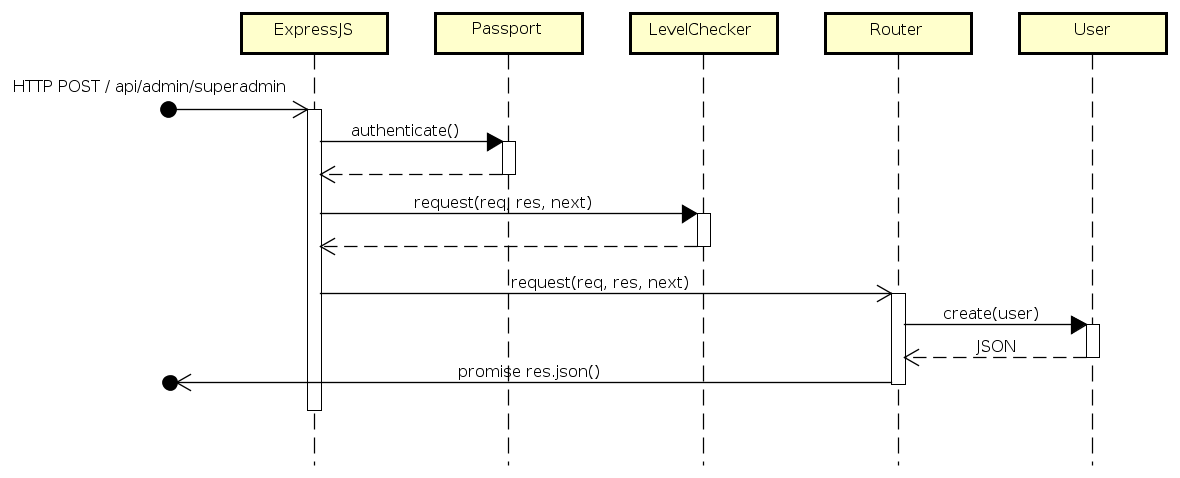
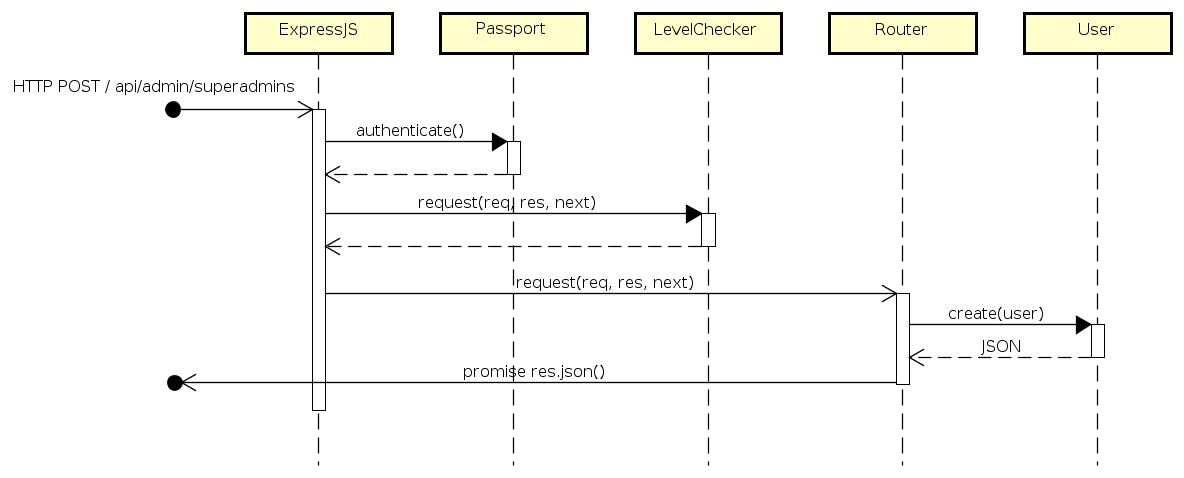
Correct API names with Alessandro's indications Add plural in names and insert companies before each :company_id

diff --git a/official/SpecificaTecnica/res/sections/api.tex b/official/SpecificaTecnica/res/sections/api.tex
@@ -26,7 +26,7 @@
 \newpage
 \subsubsection{Creazione Company}
 \textbf{Tipologia:} POST \\
-\textbf{API:} /api/company \\
+\textbf{API:} /api/companies \\
 \textbf{Descrizione:} Necessita di una richiesta con body contenente le informazioni relative alla company e alla creazione del profilo del suo Owner. \\
 \textbf{Scenario:} 
 \begin{figure}[h]
@@ -39,7 +39,7 @@
 \subsection{User}
 \subsubsection{Utenti di una company}
 \textbf{Tipologia:} GET \\
-\textbf{API:} /api/:company\_id/user \\
+\textbf{API:} /api/companies/:company\_id/users \\
 \textbf{Livello di accesso minimo:} MEMBER \\
 \textbf{Descrizione:} Ritorna un array di JSON contenenti i profili degli utenti della company. \\
 \textbf{Scenario:} 
@@ -52,7 +52,7 @@
 \newpage
 \subsubsection{Inserimento utente}
 \textbf{Tipologia:} POST \\
-\textbf{API:} /api/:company\_id/user \\
+\textbf{API:} /api/companies/:company\_id/users \\
 \textbf{Livello di accesso minimo:} ADMIN \\
 \textbf{Descrizione:} Necessita di una richiesta con body contenente l'email e il livello di accesso dell'utente.\\
 \textbf{Scenario:} 
@@ -65,7 +65,7 @@
 \newpage
 \subsubsection{Ottenimento del profilo utente}
 \textbf{Tipologia:} GET \\
-\textbf{API:} /api/:company\_id/user/:user\_id \\
+\textbf{API:} /api/companies/:company\_id/users/:user\_id \\
 \textbf{Livello di accesso minimo:} GUEST \\
 \textbf{Descrizione:} Ritorna un oggetto JSON contenente le informazioni relative al profilo dell'utente indicato da user\_id \\
 \textbf{Scenario:} 
@@ -78,7 +78,7 @@
 \newpage
 \subsubsection{Aggiornamento del profilo utente}
 \textbf{Tipologia:} PUT \\
-\textbf{API:} /api/:company\_id/user/:user\_id \\
+\textbf{API:} /api/companies/:company\_id/users/:user\_id \\
 \textbf{Livello di accesso minimo:} GUEST \\
 \textbf{Descrizione:} Necessita di una richiesta con un body contenente le informazioni per modificare l'utente indicato da user\_id. Il metodo deve essere utilizzato per la modifica del profilo di un utente. Un utente con permessi inferiori ad ADMIN ha la possibilità di modificare solo i propri dati, mentre ad ADMIN e OWNER vengono permesse modifiche a tutti i profili della company. 
 \textbf{Scenario:} 
@@ -91,7 +91,7 @@
 \newpage
 \subsubsection{Aggiornamento delle credenziali utente}
 \textbf{Tipologia:} PUT \\
-\textbf{API:} /api/:company\_id/user/:user\_id/credentials \\
+\textbf{API:} /api/companies/:company\_id/users/:user\_id/credentials \\
 \textbf{Livello di accesso minimo:} GUEST \\
 \textbf{Descrizione:} Metodo per la modifica delle credenziali di accesso di un utente. Un utente ha il permesso di cambiare solo le proprie credenziali. \\
 \textbf{Scenario:} 
@@ -104,7 +104,7 @@
 \newpage
 \subsubsection{Cancellazione utente}
 \textbf{Tipologia:} DELETE \\
-\textbf{API:} /api/:company\_id/user/:user\_id \\
+\textbf{API:} /api/companies/:company\_id/users/:user\_id \\
 \textbf{Livello di accesso minimo:} ADMIN \\
 \textbf{Descrizione:} Ritorna un messaggio di conferma dell'avvenuta cancellazione. \\
 \textbf{Scenario:} 
@@ -117,7 +117,7 @@
 \newpage
 \subsection{Company}
 \textbf{Tipologia:} GET \\
-\textbf{API:} /api/:company\_id/ \\
+\textbf{API:} /api/companies/:company\_id/ \\
 \textbf{Livello di accesso minimo:} GUEST \\
 \textbf{Descrizione:} Ritorna le informazioni generali di una company \\
 \textbf{Scenario:} 
@@ -131,7 +131,7 @@
 \newpage
 \subsubsection{Aggiornamento dei dati di una company}
 \textbf{Tipologia:} PUT \\
-\textbf{API:} /api/:company\_id/ \\
+\textbf{API:} /api/companies/:company\_id/ \\
 \textbf{Livello di accesso minimo:} ADMIN \\
 \textbf{Descrizione:} Necessita di una richiesta con body contenente le modifiche da apportare ai dati della company. \\
 \textbf{Scenario:} 
@@ -144,7 +144,7 @@
 \newpage
 \subsubsection{Cancellazione di una company}
 \textbf{Tipologia:} DELETE \\
-\textbf{API:} /api/:company\_id/ \\
+\textbf{API:} /api/companies/:company\_id/ \\
 \textbf{Livello di accesso minimo:} ADMIN \\
 \textbf{Descrizione:} Ritorna un messaggio di avvenuta cancellazione. \\
 \textbf{Scenario:} 
@@ -158,9 +158,9 @@
 \subsection{DSL}
 \subsubsection{Elenco delle specifiche DSL}
 \textbf{Tipologia:} GET \\
-\textbf{API:} /api/:company\_id/DSL \\
+\textbf{API:} /api/companies/:company\_id/DSLs \\
 \textbf{Livello di accesso minimo:} GUEST \\
-\textbf{Descrizione:} Ritorna un array contenente le DSL in formato JSON. \\
+\textbf{Descrizione:} Ritorna un array contenente le spacifiche DSL in formato JSON. \\
 \textbf{Scenario:} 
 \begin{figure}[h]
 \centering
@@ -171,7 +171,7 @@
 \newpage
 \subsubsection{Lettura del codice di una specifica DSL}
 \textbf{Tipologia:} GET \\
-\textbf{API:} /api/:company\_id/DSL/:dsl\_id \\
+\textbf{API:} /api/companies/:company\_id/DSLs/:dsl\_id \\
 \textbf{Livello di accesso minimo:} GUEST \\
 \textbf{Descrizione:} Ritorna la specifica DSL richiesta in formato JSON. \\
 \textbf{Scenario:} 
@@ -184,7 +184,7 @@
 \newpage
 \subsubsection{Aggiunta di una specifica DSL}
 \textbf{Tipologia:} POST \\
-\textbf{API:} /api/:company\_id/DSL \\
+\textbf{API:} /api/companies/:company\_id/DSLs \\
 \textbf{Livello di accesso minimo:} MEMBER \\
 \textbf{Descrizione:} Necessita di una richiesta con body contenente i dati necessari alla creazione della DSL. \\
 \textbf{Scenario:} 
@@ -197,7 +197,7 @@
 \newpage
 \subsubsection{Aggiornamento del codice di una specifica DSL}
 \textbf{Tipologia:} PUT \\
-\textbf{API:} /api/:company\_id/DSL/:dsl\_id \\
+\textbf{API:} /api/companies/:company\_id/DSLs/:dsl\_id \\
 \textbf{Livello di accesso minimo:} MEMBER \\
 \textbf{Descrizione:} Necessita di una richiesta con body contenente i dati necessari alla modifica della DSL specificata da dsl\_id. \\
 \textbf{Scenario:}
@@ -210,7 +210,7 @@
 \newpage
 \subsubsection{Cancellazione di una specifica DSL}
 \textbf{Tipologia:} DELETE \\
-\textbf{API:} /api/:company\_id/DSL/:dsl\_id \\
+\textbf{API:} /api/companies/:company\_id/DSLs/:dsl\_id \\
 \textbf{Livello di accesso minimo:} MEMBER \\
 \textbf{Descrizione:} Ritorna un messaggio in formato JSON di avvenuta cancellazione. \\
 \textbf{Scenario:} 
@@ -223,7 +223,7 @@
 \newpage
 \subsubsection{Ottenimento della dashboard di un utente}
 \textbf{Tipologia:} GET \\
-\textbf{API:} /api/:company\_id/Dashboard \\
+\textbf{API:} /api/companies/:company\_id/users/:user\_id/dashboard \\
 \textbf{Livello di accesso minimo:} GUEST \\
 \textbf{Descrizione:} Ritorna la dashboard di un utente definita da una DSL. \\
 \textbf{Scenario:}  
@@ -236,7 +236,7 @@
 \newpage
 \subsubsection{Esecuzione di una specifica DSL}
 \textbf{Tipologia:} GET \\
-\textbf{API:} /api/:company\_id/DSL/:dsl\_id/execute \\
+\textbf{API:} /api/companies/:company\_id/DSLs/:dsl\_id/execute \\
 \textbf{Livello di accesso minimo:} GUEST \\
 \textbf{Descrizione:} Ritorna un JSON contenente i dati richiesti dalla specifica DSL e la struttura su cui inserire i dati. \\
 \textbf{Scenario:} 
@@ -249,7 +249,7 @@
 \newpage
 \subsection{Database}
 \textbf{Tipologia:} GET \\
-\textbf{API:} /api/:company\_id/database \\
+\textbf{API:} /api/companies/:company\_id/databases \\
 \textbf{Livello di accesso minimo:} MEMBER \\
 \textbf{Descrizione:} Ritorna un array contenente i nomi e gli id di ciascun database. \\
 \textbf{Scenario:}
@@ -263,7 +263,7 @@
 \newpage
 \subsubsection{Visualizzazione dati di un database}
 \textbf{Tipologia:} GET \\
-\textbf{API:} /api/:company\_id/database/:database\_id \\
+\textbf{API:} /api/companies/:company\_id/databases/:database\_id \\
 \textbf{Livello di accesso minimo:} ADMIN \\
 \textbf{Descrizione:} Ritorna tutte le informazioni relative al database richiesto. \\
 \textbf{Scenario:} 
@@ -276,7 +276,7 @@
 \newpage
 \subsubsection{Aggiunta di un database}
 \textbf{Tipologia:} POST \\
-\textbf{API:} /api/:company\_id/database \\
+\textbf{API:} /api/companies/:company\_id/databases \\
 \textbf{Livello di accesso minimo:} ADMIN \\
 \textbf{Descrizione:} Necessita di una richiesta con body contenete i dati relativi alla connessione del nuovo database. \\
 \textbf{Scenario:}
@@ -289,7 +289,7 @@
 \newpage
 \subsubsection{Aggiornamento di un database}
 \textbf{Tipologia:} PUT \\
-\textbf{API:} /api/:company\_id/database/:database\_id \\
+\textbf{API:} /api/companies/:company\_id/databases/:database\_id \\
 \textbf{Livello di accesso minimo:} ADMIN \\
 \textbf{Descrizione:} Metodo per aggiornare le informazioni relative alla connessione al database o per aggiornare l'elenco delle collezioni. \\
 \textbf{Scenario:}
@@ -302,7 +302,7 @@
 \newpage
 \subsubsection{Cancellazione di un database}
 \textbf{Tipologia:} DELETE \\
-\textbf{API:} /api/:company\_id/database/:database\_id \\
+\textbf{API:} /api/companies/:company\_id/databases/:database\_id \\
 \textbf{Livello di accesso minimo:} ADMIN \\
 \textbf{Descrizione:} Elimina il database selezionato e tutte le DSL che lo utilizzano. \\
 \textbf{Scenario:} 
@@ -315,7 +315,7 @@
 \newpage
 \subsubsection{Visualizzazione collections di un database}
 \textbf{Tipologia:} GET \\
-\textbf{API:} /api/:company\_id/database/:database\_id/collection \\
+\textbf{API:} /api/companies/:company\_id/databases/:database\_id/collections \\
 \textbf{Livello di accesso minimo:} MEMBER \\
 \textbf{Descrizione:} Ritorna un array di collection relative ad un database a cui l'utente ha accesso. \\
 \textbf{Scenario:} 
@@ -329,7 +329,7 @@
 \subsection{Super admin}
 \subsubsection{Ottenimento informazioni delle companies}
 \textbf{Tipologia:} GET \\
-\textbf{API:} /api/admin/company \\
+\textbf{API:} /api/admin/companies \\
 \textbf{Descrizione:} Restituisce un array di JSON contenenti le informazioni relative alle company presenti nell'applicazione. \\
 \textbf{Scenario:} 
 \begin{figure}[h]
@@ -341,7 +341,7 @@
 \newpage
 \subsubsection{Aggiunta di un super admin}
 \textbf{Tipologia:} POST \\
-\textbf{API:} /api/admin/superadmin \\
+\textbf{API:} /api/admin/superadmins \\
 \textbf{Descrizione:} Necessita di una richiesta con body contenente le informazioni relative al superadmin da creare. \\
 \textbf{Scenario:} 
 \begin{figure}[h]
@@ -353,7 +353,7 @@
 \newpage
 \subsubsection{Aggiunta di un utente}
 \textbf{Tipologia:} POST \\
-\textbf{API:} /api/admin/company/:company\_id/user \\
+\textbf{API:} /api/admin/companies/:company\_id/users \\
 \textbf{Descrizione:} Necessita di una richiesta con body contenente le informazioni relative all'utente da creare per la company individuata da company\_id. \\
 \textbf{Scenario:} 
 \begin{figure}[h]
